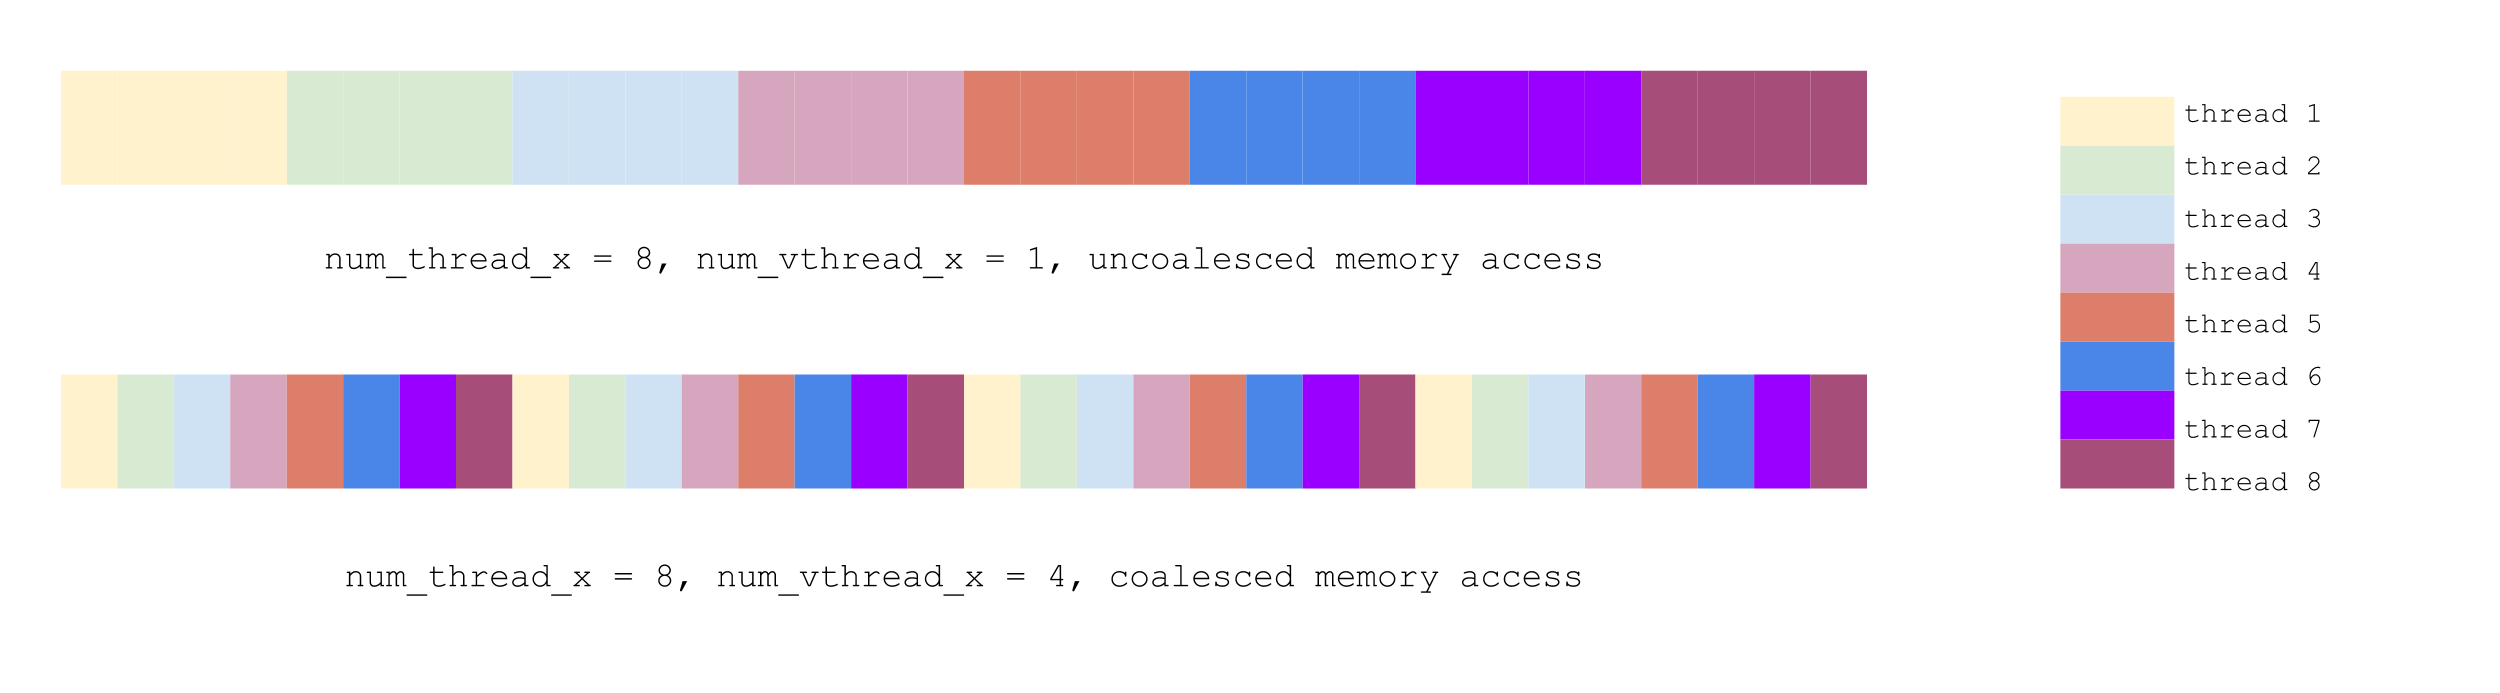
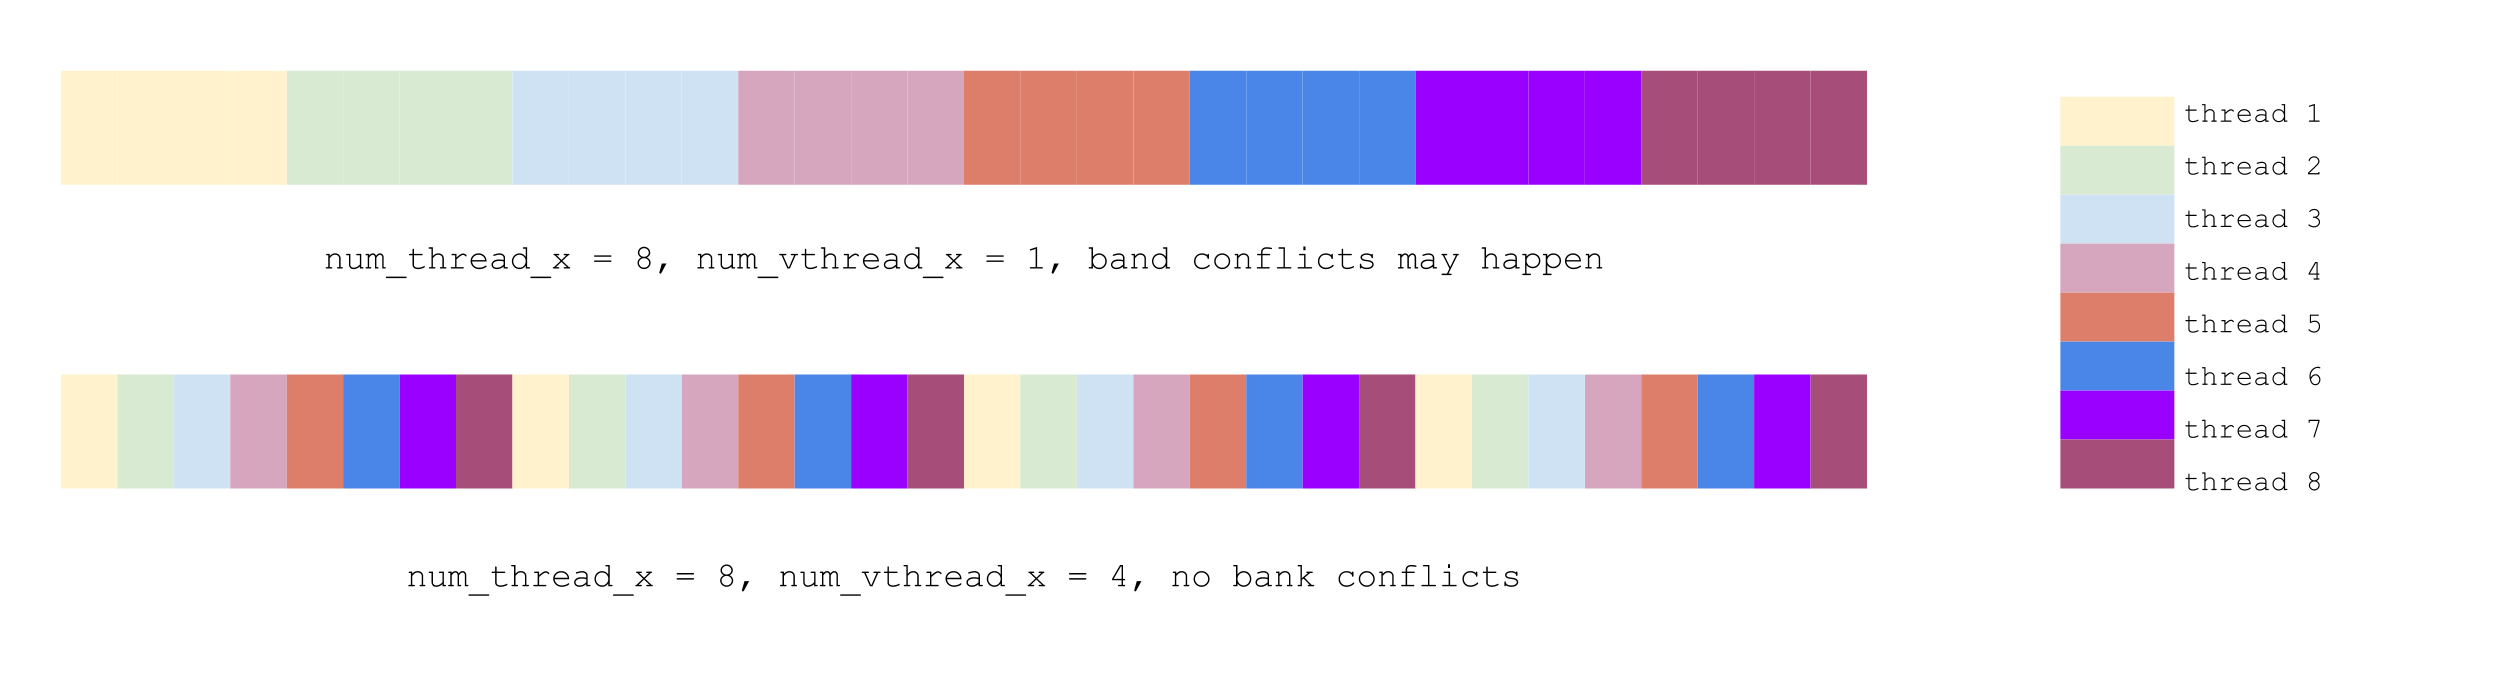
update

Changed region(s): [[0.1248, 0.8182, 0.624, 0.8485], [0.4368, 0.3636, 0.6552, 0.3939]]

diff --git a/_posts/2017-08-22-Optimize-Deep-Learning-GPU-Operators-with-TVM-A-Depthwise-Convolution-Example.md b/_posts/2017-08-22-Optimize-Deep-Learning-GPU-Operators-with-TVM-A-Depthwise-Convolution-Example.md
@@ -5,17 +5,21 @@ date:   2017-08-22
 author: Yuwei Hu
 ---
 
-Efficient deep learning operators are at the core of deep learning systems. This blog teaches you how to write efficient GPU operators with the help of [TVM](https://github.com/dmlc/tvm),
-an end to end tensor IR/DSL stack for deploying deep learning workloads to hardwares.
+Efficient deep learning operators are at the core of deep learning systems.
+Usually these operators are hard to optimize and require great efforts of HPC experts.
+[TVM](https://github.com/dmlc/tvm), an end to end tensor IR/DSL stack, makes this much easier.
 
-We use the depthwise convolution as an example, i.e. [topi.nn.depthwise_conv2d_nchw](http://docs.tvmlang.org/api/python/topi.html#topi.nn.depthwise_conv2d_nchw),
-that is 2x faster than tensorflow's hand crafted version. Below is the speed comparison with Input = [1, 1, 96, 96], Filter = [1, 1, 32, 32], stride = [1, 1], padding = 'SAME':
+This blog teaches you how to write high-performance GPU operator kernels with the help of TVM.
+We use depthwise convolution (i.e. [topi.nn.depthwise_conv2d_nchw](http://docs.tvmlang.org/api/python/topi.html#topi.nn.depthwise_conv2d_nchw)) as an example,
+and demonstrate how we can improve over the already hand optimized CUDA kernel in tensorflow.
+Our final version in TVM is 2x-4x faster than tf-1.2-cudnn under different workloads, and 3x-7x faster with operator fusion.
+Below is the result with Filter = [1, 1, 3, 3], stride = [1, 1], padding = 'SAME', tested on GTX1080:
 
 {:center: style="text-align: center"}
-![image](/images/depthconv_tutorial/tf_compare.png){: width="60%"}
+![image](/images/depthconv_tutorial/tf_compare.png){: width="95%"}
 {:center}
 
-## 1. Introduction to Depthwise Convolution
+## Introduction to Depthwise Convolution
 
 Depthwise convolution is an important building block of modern architectures, such as [Xception](https://arxiv.org/abs/1610.02357) and [MobileNet](https://arxiv.org/abs/1704.04861).
 It's an effective method to reduce the computation complexity of deep neural networks.
@@ -45,10 +49,10 @@ Output = tvm.compute(
     name='DepthwiseConv2d')
 ```
 
-## 2. General GPU Optimization Guidelines
+## General GPU Optimization Guidelines
 
 This part briefly talks about three concepts we should know when optimizing CUDA code: data reuse, shared memory and bank conflicts.
-It would be great if you already know them, then you may skip this part and go directly to part 3.
+It would be great if you already know them, then you may skip this part.
 
 ### Data Reuse
 In modern computing architectures, the cost of loading data from memory is much higher than doing a single floating point computation [1].
@@ -58,13 +62,13 @@ There are two forms of data reuse in depthwise convolution: filter reuse and inp
 Input reuse is realized through tiling, let's take 3x3 depthwise conv as an example:
 
 {:center}
-![image](/images/depthconv_tutorial/no_tiling.png){: width="80%"}
+![image](/images/depthconv_tutorial/no_tiling.png){: width="70%"}
 {:center}
 
 Without tiling, each thread computes 1 output element and loads 3x3 input data. 16 threads together have 9x16 loads.
 
 {:center}
-![image](/images/depthconv_tutorial/tiling.png){: width="80%"}
+![image](/images/depthconv_tutorial/tiling.png){: width="70%"}
 {:center}
 
 With tiling, each thread computes 2x2 output elements and loads 4x4 input data. 4 threads together have 16x4 loads.
@@ -84,27 +88,18 @@ Besides, too much shared memory allocated to one block limits the number of acti
 When using shared memory, we should try to avoid bank conflicts. Shared memory is divided into equally sized memory modules (banks) that can be accessed simultaneously,
 however, if multiple threads access the same memory bank (causing bank conflicts), the accesses will be serialized, thus decreasing the effective bandwidth.
 
+Shared memory banks are organized such that successive addresses are assigned to successive banks.
+To avoid bank conflicts, it's better that consecutive threads access consecutive memory addresses, as illustrated below:
+
+{:center}
+![image](/images/depthconv_tutorial/bank_conflicts.png){: width="95%"}
+{:center}
+
 For more details on shared memory and bank conflicts, please refer to [this Nvidia's blog](https://devblogs.nvidia.com/parallelforall/using-shared-memory-cuda-cc/).
-
-<!-- ### Coalesced Memory Access
-Coalesced memory access refers to that consecutive threads access consecutive memory addresses. Assume there are four threads, coalesced memory access is:
-
-{:center}
-![image](/images/depthconv_tutorial/coalesced.png){: width="80%"}
-{:center}
-
-Uncoalesced memory access is:
-
-{:center}
-![image](/images/depthconv_tutorial/uncoalesced.png){: width="80%"}
-{:center}
-
-When coalesced, multiple memory accesses (4 in above example) can be combined into a single transaction, therefore more efficient than uncoalesced.
-For more details on coalesced memory access, please refer to [this Cornell's tutorial](https://cvw.cac.cornell.edu/gpu/coalesced). -->
 
 Ok, now let's start optimizing depthwise convolution in TVM.
 
-## 3. Schedule Optimization
+## Schedule Optimization
 
 ### Compute PaddedInput Inline to Save Memory Allocation
 As we see from part 1, padding is declared explicitly as a separate stage. We compute it inline to avoid redundant memory allocation:
@@ -133,10 +128,10 @@ Here is the result:
 
 | Input            | Filter         | stride | tf-1.2-cudnn SAME pad (us) | TVM SAME pad (us) |
 |:----------------:|:--------------:|:------:|:------------------------:|:-----------------:|
-| [1, 256, 21, 21] | [256, 1, 3, 3] | [1, 1] | 13.5                     | 9.1               |
-| [1, 256, 32, 32] | [256, 1, 3, 3] | [1, 1] | 26.8                     | 14.5              |
-| [1, 256, 64, 64] | [256, 1, 3, 3] | [1, 1] | 94.7                     | 98.9              |
-| [1, 256, 96, 96] | [256, 1, 3, 3] | [1, 1] | 206.0                    | 387.4             |
+| [1, 256, 21, 21] | [256, 1, 3, 3] | [1, 1] | 16.1                     | 9.1               |
+| [1, 256, 32, 32] | [256, 1, 3, 3] | [1, 1] | 34.8                     | 14.5              |
+| [1, 256, 64, 64] | [256, 1, 3, 3] | [1, 1] | 130.9                    | 98.9              |
+| [1, 256, 96, 96] | [256, 1, 3, 3] | [1, 1] | 251.6                    | 387.4             |
 
 As we can see, this schedule performs well with small channel size like 21 x 21 or 32 x 32, however, its performance drops seriously as the channel size increases to larger than 64 x 64. One main reason is that too much shared memory allocated to one block limits the number of active blocks per multiprocessor.
 
@@ -161,8 +156,8 @@ Here is the new result:
 
 | Input            | [blocking_h, blocking_w] | tf-1.2-cudnn SAME pad (us) | TVM SAME pad (us) |
 |:----------------:|:------------------------:|:------------------------:|:-----------------:|
-| [1, 256, 64, 64] | [32, 32]                 | 94.7                     | 63.4              |
-| [1, 256, 96, 96] | [32, 32]                 | 206.0                    | 132.5             |
+| [1, 256, 64, 64] | [32, 32]                 | 130.9                    | 63.4              |
+| [1, 256, 96, 96] | [32, 32]                 | 251.6                    | 132.5             |
 
 Our blocking strategy works! For 64 x 64 channel size, it brings 1.6x acceleration (98.9us -> 63.4us); for 96 x 96 channel size, it brings 2.9x acceleration (387.4us -> 132.5us).
 
@@ -204,8 +199,8 @@ It has better data reuse than case 1's 4x1 tile.
 To summarize what we learn from above observations:
 
 - Large tile is good for data reuse, but not good for local memory read.
-- The influence of `num_thread_y` and `num_thread_x` on bank conflics is asymmetric.
-- To find the optimal combination of `num_thread_y` and `num_thread_x` is to achieve a balance of shared memory access (avoid bank conflicts), data reuse, and local memory read.
+- The influence of `num_thread_y` and `num_thread_x` on bank conflicts is asymmetric.
+- To find the optimal combination of `num_thread_y` and `num_thread_x` is to achieve a balance of efficient shared memory access (avoid bank conflicts), data reuse, and local memory read.
 
 Pretty tricky. So, what exactly should we do to find the optimal combination? The answer is brute force search. 
 We can pass `num_thread_y` and `num_thread_x` as arguments to the schedule function, and try all possible combinations to find the optimal one. This can be done easily in TVM:
@@ -325,31 +320,31 @@ table th:nth-of-type(2) {
 | 3    | [1, 256, 96, 96] | 4, 32                      | 1, 1                         | 95.9              |
 | 4    | [1, 256, 96, 96] | 8, 16                      | 1, 2                         | 90.9              |
 
-Case 2 is faster than case 1. It's because in case 2 `num_thread_x=8` and `num_vthread_x=4` together brings coalesced memory access, as illustrated below
-(each color represents the workload of one thread):
+Case 2 is faster than case 1. It's because in case 2 `num_thread_x=8` and `num_vthread_x=4` together ensures that consecutive threads access consecutive memory addresses,
+thus avoiding bank conflicts, as illustrated below (each color represents one thread's workload):
 
 {:center}
 ![image](/images/depthconv_tutorial/vthread_and_strided_pattern.png){: width="90%"}
 {:center}
 
-In theory case 3 4 should be the same fast, since they have the same workload per thread, and both enjoy coalesced memory access. Somehow case 4 is just a little faster.
+In theory case 3 4 should be the same fast, since they have the same workload per thread, and both enjoy efficient shared memory access. Somehow case 4 is just a little faster.
 
-Still remember tensorflow's speed? It's 206.0us, and now TVM is 2.3x faster. 387.4 -> 132.5 -> 95.9 -> 90.9, blocking helps the most; tuning thread numbers saves 37us;
+Still remember tensorflow's speed? It's 251.6us, and now TVM is 2.8x faster. 387.4 -> 132.5 -> 95.9 -> 90.9, blocking helps the most; tuning thread numbers saves 37us;
 vthread saves additional 5us.
 
 In fact, TVM can be extremely faster than tensorflow with large kernel size or channel_multiplier (because of more filter reuse) :
 
 | Input            | Filter         | stride | tf-1.2-cudnn SAME pad (us) | TVM SAME pad (us) | How faster is TVM |
 |:----------------:|:--------------:|:------:|:------------------------:|:-----------------:|:-----------------:|
-| [1, 256, 96, 96] | [256, 1, 3, 3] | [1, 1] | 206.0                    | 90.9              | 2.3x              |
+| [1, 256, 96, 96] | [256, 1, 3, 3] | [1, 1] | 251.6                    | 90.9              | 2.8x              |
 | [1, 256, 96, 96] | [256, 1, 5, 5] | [1, 1] | 597.6                    | 128.9             | 4.6x              |
 | [1, 256, 96, 96] | [256, 2, 3, 3] | [1, 1] | 659.9                    | 143.7             | 4.6x              |
 | [1, 256, 96, 96] | [256, 2, 5, 5] | [1, 1] | 1203.9                   | 170.5             | 7.1x              |
  
 ## 3. Operator Fusion
 
-One typical optimization that we can do in deep learning is operator fusion, that computes multiple operators together in a single kernel without saving back to global memory.
-TVM support that out of the box.
+One typical optimization we can do in deep learning is operator fusion, that computes multiple operators together in a single kernel without saving intermediate results back to global memory.
+TVM supports that out of the box.
 
 Consider a common pattern in neural networks: `depthwise_conv2d` + `scale_shift` + `relu`. We can fuse the three operators into one, by slightly modifying the original schedule:
 
@@ -399,8 +394,8 @@ produce Relu {
 As we can see, each thread computes `scale_shift` and `relu` before writing the result of `depthwise_conv2d` to global memory. The fused operator is as fast as single `depthwise_conv2d`.
 Below is the result with Input = [1, 256, 96, 96], Filter = [256, 1, 3, 3], stride = [1, 1], padding = 'SAME':
 
-- tf-1.2-cudnn `depthwise_conv2d`: 206.0 us
-- tf-1.2-cudnn `depthwise_conv2d` + `scale_shift` + `relu` (separate): 465.2 us
+- tf-1.2-cudnn `depthwise_conv2d`: 251.6 us
+- tf-1.2-cudnn `depthwise_conv2d` + `scale_shift` + `relu` (separate): 419.9 us
 - TVM `depthwise_conv2d`: 90.9 us
 - TVM `depthwise_conv2d + scale_shift + relu` (fused): 91.5 us
 
